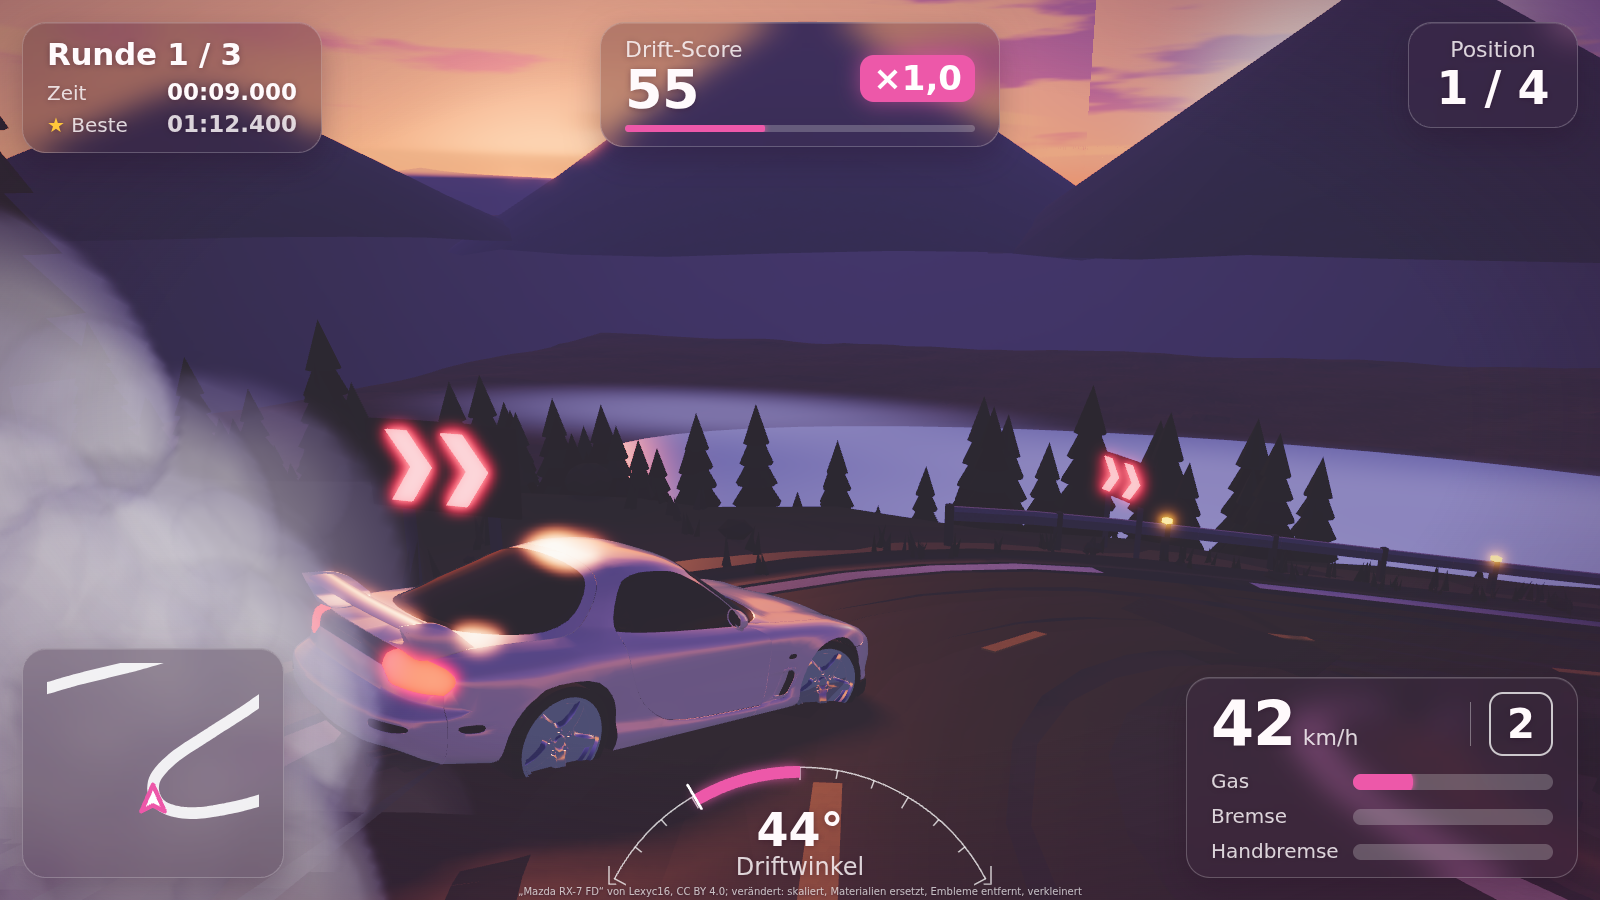
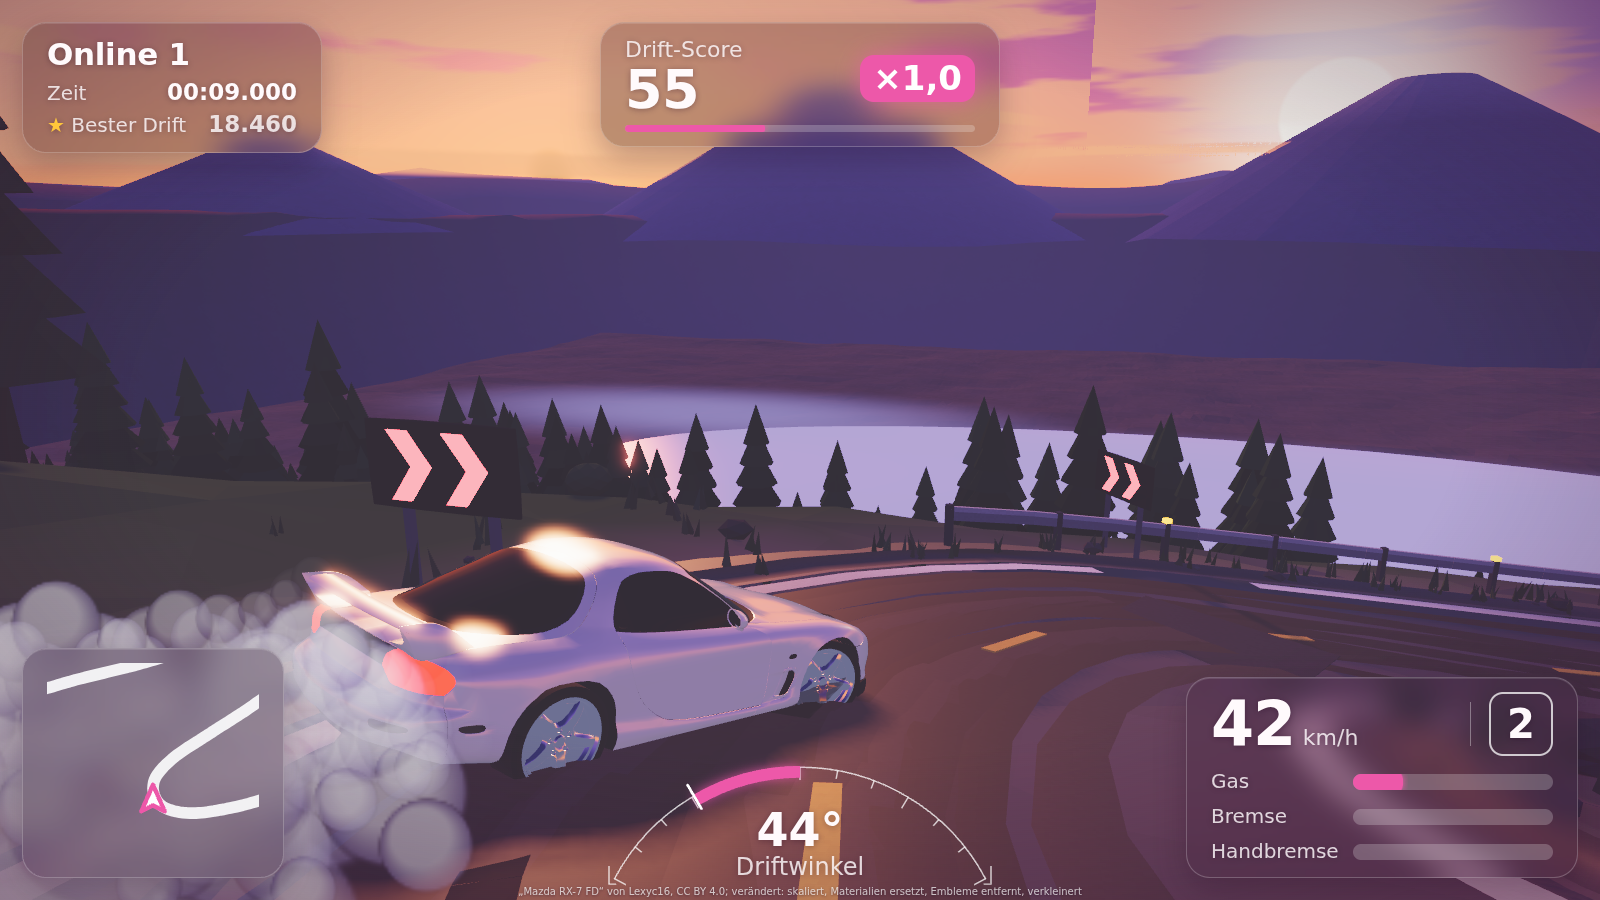
Touge look round 2: smoke trails that grow with the angle and thin out fast (burst at the start), the car kept free of its smoke in the game too (stage.render), soft contact shadow, hazier volcanoes with a rim, warmer brighter dusk, bloom only on lights, probe HUD in free-run mode; LOOK-LOG.md

diff --git a/game/view/look/billows.js b/game/view/look/billows.js
@@ -61,6 +61,11 @@ export class Billows {
     this.mesh.frustumCulled = false; this.mesh.renderOrder = 4;
     this.opacity = S.opacity ?? 0.9;
     this.scale = S.size ?? 1;   // how big the billows grow
+    // the mockups' smoke: soft trails behind the rear wheels that grow with the drift angle and thin out fast; a little more at the start
+    // of a slide (`burst` times as big for `burstTime` s after a pause of more than 0.4 s), never a wall over the picture
+    this.life0 = S.life ?? 2.0; this.lifeK = S.lifeGrow ?? 1.6; this.grow0 = S.start ?? 2.0; this.growK = S.spread ?? 6.5;
+    this.burst = S.burst ?? 1; this.burstTime = S.burstTime ?? 0.5; this.fade = S.fade ?? 0.5;
+    this.clock = 0; this.lastEmit = -9; this.slideStart = 0;
   }
   /** The car's place for the fade (drawing space) and the camera: puffs in front of the car that would cover it fade out. */
   aim(camera, radius = 1.6) {
@@ -72,9 +77,13 @@ export class Billows {
     const i = this.next; this.next = (this.next + 1) % this.cap;
     this.pos.set([x, y + 0.3, z], i * 3);
     this.vel.set([vx + (this.rnd() - 0.5) * 1.4, 0.35 + strength * 0.4, vz + (this.rnd() - 0.5) * 1.4], i * 3);
-    this.age[i] = 0; this.life[i] = 2.0 + strength * 1.6; this.grow[i] = 0.8 + this.rnd() * 0.6; this.spin[i] = this.rnd() * 6.28;
+    if (this.clock - this.lastEmit > 0.4) this.slideStart = this.clock;
+    this.lastEmit = this.clock;
+    const fresh = this.clock - this.slideStart < this.burstTime ? this.burst : 1;
+    this.age[i] = 0; this.life[i] = (this.life0 + strength * this.lifeK) * (fresh > 1 ? 1.2 : 1); this.grow[i] = (0.8 + this.rnd() * 0.6) * (0.45 + strength * 0.75) * fresh; this.spin[i] = this.rnd() * 6.28;
   }
   update(dt) {
+    this.clock += dt;
     for (let i = 0; i < this.cap; i++) {
       if (this.age[i] >= this.life[i]) continue;
       this.age[i] += dt;
@@ -87,8 +96,8 @@ export class Billows {
     for (let i = 0; i < this.cap; i++) {
       const k = this.age[i] / this.life[i];
       d[i * 4] = this.pos[i * 3]; d[i * 4 + 1] = this.pos[i * 3 + 1]; d[i * 4 + 2] = this.pos[i * 3 + 2];
-      d[i * 4 + 3] = k >= 1 ? 0 : (2.0 + k * 6.5) * this.grow[i] * this.scale;
-      al[i * 2] = k >= 1 ? 0 : this.opacity * Math.sqrt(1 - k) * Math.min(1, k * 5); al[i * 2 + 1] = this.spin[i] + k * 0.6;
+      d[i * 4 + 3] = k >= 1 ? 0 : (this.grow0 + k * this.growK) * this.grow[i] * this.scale;
+      al[i * 2] = k >= 1 ? 0 : this.opacity * Math.pow(1 - k, 1 / this.fade) * Math.min(1, k * 5);   // fade < 1: thins out sooner al[i * 2 + 1] = this.spin[i] + k * 0.6;
     }
     this.data.needsUpdate = true; this.alpha.needsUpdate = true;
   }

diff --git a/game/lookprobe.js b/game/lookprobe.js
@@ -19,8 +19,8 @@ import { ProbeHud } from './view/probehud.js';
 const params = new URLSearchParams(location.search);
 const lang = (params.get('lang') ?? (navigator.language?.startsWith('de') ? 'de' : 'en')) === 'de' ? 'de' : 'en';
 const T = {
-  en: { lap: 'Lap', time: 'Time', best: 'Best', score: 'Drift score', position: 'Position', angle: 'Drift angle', gear: 'Gear', gas: 'Throttle', brake: 'Brake', hand: 'Handbrake', lost: 'Lost!', handBtn: 'HAND', brakeBtn: 'BRAKE', gasBtn: 'GAS' },
-  de: { lap: 'Runde', time: 'Zeit', best: 'Beste', score: 'Drift-Score', position: 'Position', angle: 'Driftwinkel', gear: 'Gang', gas: 'Gas', brake: 'Bremse', hand: 'Handbremse', lost: 'Verloren!', handBtn: 'HAND', brakeBtn: 'BREMSE', gasBtn: 'GAS' },
+  en: { lap: 'Lap', time: 'Time', best: 'Best', score: 'Drift score', position: 'Position', angle: 'Drift angle', gear: 'Gear', gas: 'Throttle', brake: 'Brake', hand: 'Handbrake', lost: 'Lost!', online: 'Online', bestDrift: 'Best drift', handBtn: 'HAND', brakeBtn: 'BRAKE', gasBtn: 'GAS' },
+  de: { lap: 'Runde', time: 'Zeit', best: 'Beste', score: 'Drift-Score', position: 'Position', angle: 'Driftwinkel', gear: 'Gang', gas: 'Gas', brake: 'Bremse', hand: 'Handbremse', lost: 'Verloren!', online: 'Online', bestDrift: 'Bester Drift', handBtn: 'HAND', brakeBtn: 'BREMSE', gasBtn: 'GAS' },
 }[lang];
 document.documentElement.lang = lang;
 for (const e of document.querySelectorAll('[data-t]')) e.textContent = T[e.dataset.t];
@@ -149,7 +149,7 @@ function draw(now) {
   halos.resize(renderer.domElement.height, camera.fov);
   const kmh = speedOf(cur) * 3.6;
   const H = scene0.hud;
-  hud.update({ lap: H.lap, laps: H.laps, ms: simTime * 1000, best: H.best, pos: 1, of: H.of },
+  hud.update({ lap: H.lap, laps: H.laps, ms: simTime * 1000, best: H.best, pos: 1, of: H.of, free: H.mode === 'run', online: H.online ?? 1, bestDrift: H.bestDrift ?? 18460 },
     { kmh, forward: Math.sign(vf) || 1, slip: bodySlip(cur), x: X(s.x), z: s.z, h: s.h }, lastInp, score,
     scene0.parked.map((p) => [X(p.x), p.z]), running ? dt : 0.016);
   camera.updateMatrixWorld(); smoke.aim?.(camera);   // the smoke keeps the car in sight

diff --git a/game/view/look/world.js b/game/view/look/world.js
@@ -161,10 +161,11 @@ function volcanoes(S, scene, look) {
   // big lone cones far away (scene.volcanoes: [x, z, radius, height, layer]): a crater on top, the layer's colour, a lighter rim on the sun's side
   const haze = C(look.fog.colour);
   for (const [x, z, r, h, k] of scene.volcanoes ?? []) {
-    const base = C(look.ridges[Math.min(look.ridges.length - 1, k ?? 0)]), top = base.clone().lerp(haze, 0.15);
+    // air between: the farther layer the more of the haze; a lighter crater rim (snow or bare rock, look.volcano.rim) at the top
+    const V = look.volcano ?? {}, base = C(look.ridges[Math.min(look.ridges.length - 1, k ?? 0)]).lerp(haze, V.haze ?? 0.35), top = base.clone().lerp(C(V.rim ?? '#ffffff'), V.rimMix ?? 0.15);
     const g = new THREE.CylinderGeometry(r * 0.12, r, h, 28, 3, true);
     const p = g.attributes.position, col = new Float32Array(p.count * 3), c = new THREE.Color();
-    for (let i = 0; i < p.count; i++) { const t = (p.getY(i) + h / 2) / h, a = Math.atan2(p.getZ(i), p.getX(i)); p.setY(i, p.getY(i) + noise2(a * 3 + x, t * 4) * h * 0.04 * (1 - t)); c.copy(base).lerp(top, t).lerp(haze, (1 - t) * 0.35); col.set([c.r, c.g, c.b], i * 3); }
+    for (let i = 0; i < p.count; i++) { const t = (p.getY(i) + h / 2) / h, a = Math.atan2(p.getZ(i), p.getX(i)); p.setY(i, p.getY(i) + noise2(a * 3 + x, t * 4) * h * 0.04 * (1 - t)); c.copy(base).lerp(top, smoothstep(0.75, 0.95, t)).lerp(haze, (1 - t) * 0.45); col.set([c.r, c.g, c.b], i * 3); }
     g.setAttribute('color', new THREE.BufferAttribute(col, 3)); g.computeVertexNormals();
     S.add(g, null, { m: trs(X(x), h / 2 - h * 0.12, z), keepColors: true, jitter: 0, wobble: 0 });
   }

diff --git a/game/view/wheels.js b/game/view/wheels.js
@@ -15,7 +15,9 @@ export class WheelPool {
     this.mesh.instanceMatrix.setUsage(THREE.DynamicDrawUsage);
     // soft round shadow under each car: a flat disc with a radial alpha ramp, instanced
     const blob = new THREE.CircleGeometry(1, 20).rotateX(-Math.PI / 2);
-    const bm = new THREE.MeshBasicMaterial({ color: 0x000000, transparent: true, opacity: 0.32, depthWrite: false, polygonOffset: true, polygonOffsetFactor: -2 });
+    // a contact shadow, not a flat disc: dark right under the car, fading softly to its edge (a small gradient drawn here)
+    const grad = typeof document !== 'undefined' ? (() => { const c = document.createElement('canvas'); c.width = c.height = 64; const x = c.getContext('2d'), g = x.createRadialGradient(32, 32, 2, 32, 32, 32); g.addColorStop(0, 'rgba(255,255,255,1)'); g.addColorStop(0.5, 'rgba(255,255,255,0.75)'); g.addColorStop(1, 'rgba(255,255,255,0)'); x.fillStyle = g; x.fillRect(0, 0, 64, 64); return new THREE.CanvasTexture(c); })() : null;
+    const bm = new THREE.MeshBasicMaterial({ color: 0x000000, alphaMap: grad, transparent: true, opacity: grad ? 0.62 : 0.32, depthWrite: false, polygonOffset: true, polygonOffsetFactor: -2 });
     this.blobs = new THREE.InstancedMesh(blob, bm, capacityCars);
     this.blobs.count = 0;
     this.blobs.frustumCulled = false;

diff --git a/game/view/look/stage.js b/game/view/look/stage.js
@@ -101,7 +101,8 @@ export function createStage({ canvas, look, scene0, tierName = 'high', shadowSpa
       stage.halos?.resize(renderer.domElement.height, camera.fov);
       post?.setSize(renderer.domElement.width, renderer.domElement.height);
     },
-    render() { renderer.info.reset(); if (post) post.render(scene, camera); else renderer.render(scene, camera); },
+    render() { renderer.info.reset(); camera.updateMatrixWorld(); stage.smoke?.aim?.(camera);   // the smoke keeps the car in sight (also in the game)
+      if (post) post.render(scene, camera); else renderer.render(scene, camera); },
     /** The sun's shadow box and the sun itself follow a point (drawing axes: x already mirrored). */
     aimSun(cx, cy, cz) { const d = stage.sunDir; sun.target.position.set(cx, cy, cz); sun.position.set(cx + d.x * 120, cy + d.y * 120 + 30, cz + d.z * 120); },
     /** Points the environment map of every material under `root` that has one at the stage's reflection (after another map was loaded). */

diff --git a/docs/LOOK-LOG.md b/docs/LOOK-LOG.md
@@ -313,3 +313,21 @@ Biggest open points:
 3. The smoke is grey and covers the left third; at dusk it should be lit by the lamps, lighter and smaller.
 4. The meeting place at the top is big, dark and empty (no lanterns, no people, no torii seen from it).
 5. Cedars only on the valley side of the picture; the uphill slope should be a dark cedar wall with lanterns along the road.
+
+## Touge round 2 (2026-11-26): the owner's new list (smoke, rendering), the orchestrator's review
+
+Done in the shared modules (the game takes them with it):
+- Smoke (`billows.js`, data in `look.smoke`): trails behind the rear wheels that grow with the drift angle (`start`, `spread`, the
+  angle scales each puff), thin out fast (`life`, `lifeGrow`, `fade` < 1), a little more for the first `burstTime` s of a slide
+  (`burst`), half the old size on the touge. `stage.render()` now keeps the car free of its own smoke in the game too
+  (`Billows.aim` is called there).
+- Contact shadow under the car (`wheels.js`): a soft gradient that is dark right under the car and fades to its edge, not a flat disc.
+- Volcanoes: hazier by layer, a lighter crater rim (`look.volcano`); farther away.
+- Touge look: warmer and brighter (exposure, sun, fill), green cedars and grey road kept, bloom only above 2.4 (lamps, chevrons),
+  smaller lamp halos. Probe HUD in the touge's free-run mode (no lap or position: run time, drift score, best drift).
+Numbers: high tier 995k triangles / 50 calls, phone tier about 81k / 21.
+
+Still open: the game has no touge map yet (the drift chat builds it), so no game picture of the touge; volcano faces lie in their
+own shade (dark flat triangles); a bright highlight on the car's roof; real shadows of trees and rails need the shadow box to reach
+farther; foliage from outside sources waits for the owner's yes to download (a list went to the orchestrator); automatic quality
+tiers are next.
